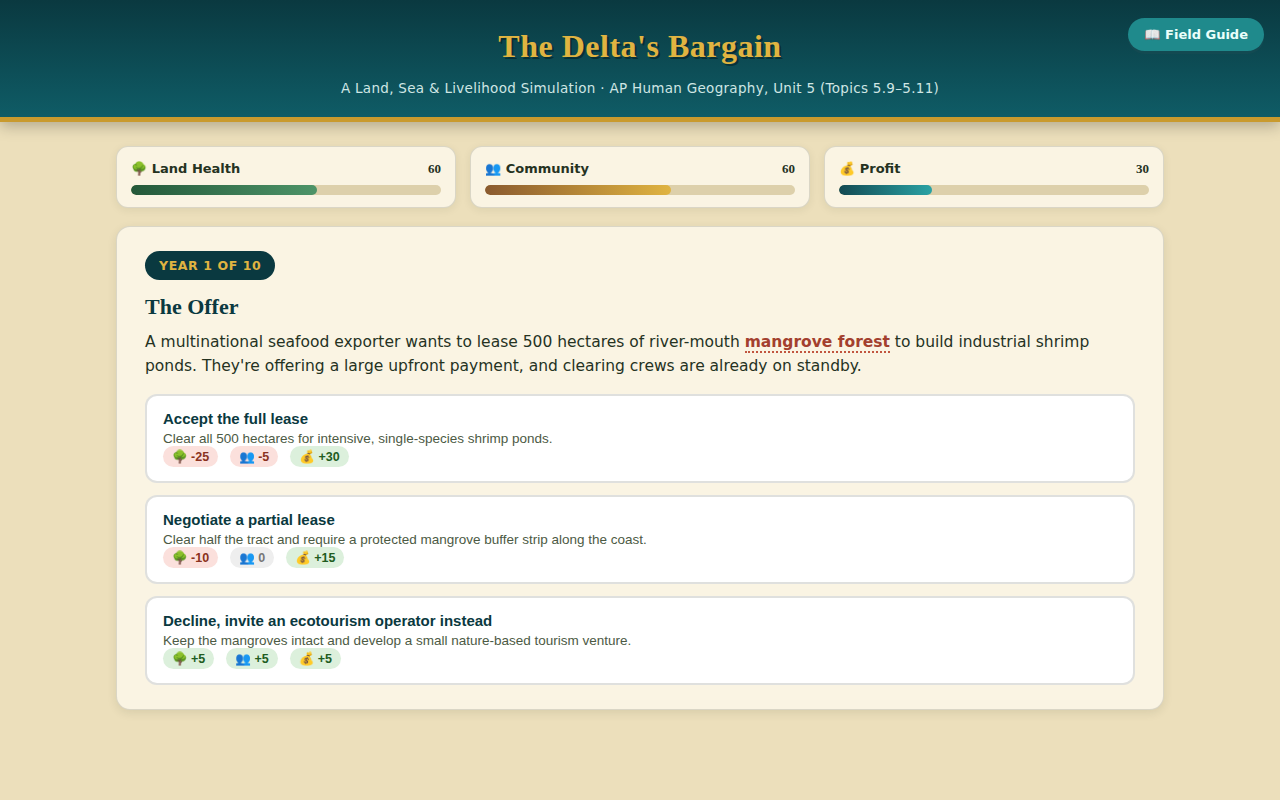
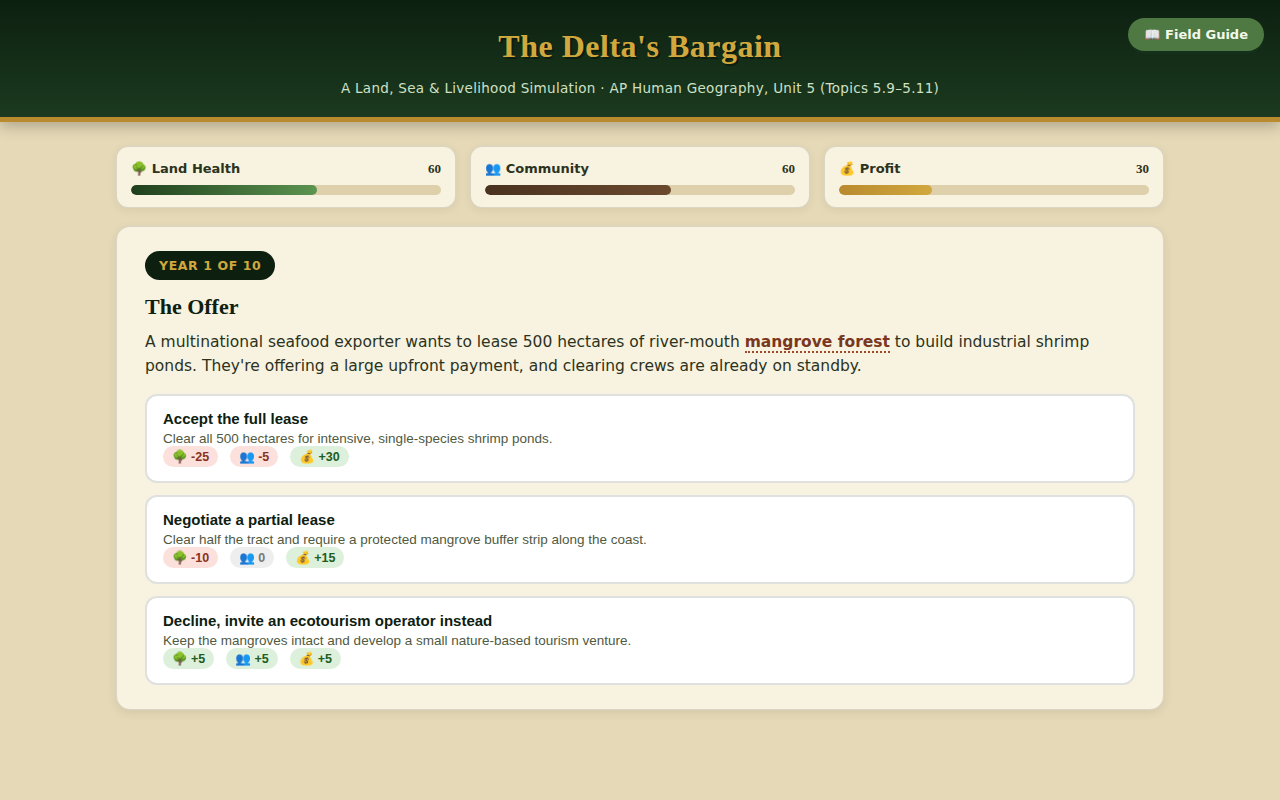
Restyle The Delta's Bargain with a green-and-brown palette
Swap the teal/navy chrome for deep forest greens, moss-green accents,
and terracotta/brown highlights. Differentiate the three resource
meters into green (land), brown (community), and gold (profit)
gradients, and regenerate the games-index thumbnail to match.

diff --git a/games/delta-bargain/index.html b/games/delta-bargain/index.html
@@ -9,15 +9,15 @@
 @import url('https://fonts.googleapis.com/css2?family=Bitter:wght@600;700;800&family=Figtree:wght@400;500;600;700;800&display=swap');
 
 :root{
-  --water:#0f5c66; --water2:#134a52; --water3:#0a3940;
-  --lagoon:#1f8a8c; --lagoon2:#2aa3a5;
-  --mangrove:#2f6b4f; --mangrove2:#245839; --mangrove-light:#4d9468;
-  --sand:#ecdfbb; --sand-dark:#ddc998; --parchment:#faf4e3;
-  --mud:#6b4a34; --mud-dark:#4a3223;
-  --coral:#c1553f; --coral2:#a3402e;
-  --gold:#c99a2e; --gold2:#e0b441;
-  --ink:#25321f; --ink-soft:#4c5a44;
-  --line:rgba(37,50,31,0.15);
+  --water:#1b3a1f; --water2:#14301a; --water3:#0d2010;
+  --lagoon:#4f7942; --lagoon2:#5f8f4f;
+  --mangrove:#2f5d2a; --mangrove2:#1f3f1c; --mangrove-light:#5c9450;
+  --sand:#e6d9b8; --sand-dark:#d4c092; --parchment:#f8f2e0;
+  --mud:#6b4a2e; --mud-dark:#4a3220;
+  --coral:#9c4a2a; --coral2:#7a3720;
+  --gold:#b98a2e; --gold2:#d1a83e;
+  --ink:#2b3320; --ink-soft:#4f5a3f;
+  --line:rgba(43,51,32,0.15);
 }
 *{box-sizing:border-box;}
 body{
@@ -43,9 +43,9 @@ a{color:var(--coral);}
   color:var(--gold2); margin:0; font-size:clamp(20px,4vw,32px);
   text-shadow:2px 2px 0 rgba(0,0,0,0.35); letter-spacing:.5px;
 }
-#game-header .subtitle{ color:#cfe6e4; font-size:13.5px; margin-top:6px; letter-spacing:.3px; }
+#game-header .subtitle{ color:#cfe0c4; font-size:13.5px; margin-top:6px; letter-spacing:.3px; }
 #glossary-btn{
-  position:absolute; right:16px; top:18px; background:var(--lagoon); color:#eafffb;
+  position:absolute; right:16px; top:18px; background:var(--lagoon); color:#f2f8ea;
   border:none; border-radius:999px; padding:9px 16px; font-weight:700; font-size:13px;
   cursor:pointer; box-shadow:0 3px 0 var(--water2);
 }
@@ -79,10 +79,10 @@ a{color:var(--coral);}
 .btn-primary:active:not(:disabled){ box-shadow:0 1px 0 var(--coral2); }
 .btn-gold{ background:var(--gold); color:#2a1d10; box-shadow:0 3px 0 #96701f; }
 .btn-gold:hover:not(:disabled){ background:var(--gold2); }
-.btn-jade{ background:var(--mangrove); color:#eafff2; box-shadow:0 3px 0 var(--mangrove2); }
+.btn-jade{ background:var(--mangrove); color:#eef7e2; box-shadow:0 3px 0 var(--mangrove2); }
 .btn-jade:hover:not(:disabled){ background:var(--mangrove-light); }
-.btn-ghost{ background:transparent; color:var(--water3); border:2px solid var(--water3); box-shadow:none; padding:10px 20px; }
-.btn-ghost:hover{ background:var(--water3); color:#fff; }
+.btn-ghost{ background:transparent; color:var(--mud); border:2px solid var(--mud); box-shadow:none; padding:10px 20px; }
+.btn-ghost:hover{ background:var(--mud); color:#fff; }
 .btn-small{ padding:7px 14px; font-size:12px; }
 
 /* ══ VOCAB TERMS ══ */
@@ -92,18 +92,18 @@ a{color:var(--coral);}
 }
 .vocab-tags{ margin-top:14px; display:flex; flex-wrap:wrap; gap:8px; }
 .vocab-pill{
-  background:var(--lagoon); color:#eafffb; font-size:11.5px; font-weight:700;
+  background:var(--lagoon); color:#f2f8ea; font-size:11.5px; font-weight:700;
   padding:5px 12px; border-radius:999px; letter-spacing:.3px;
 }
 
 /* ══ INTRO SCREEN ══ */
 .hero{
   background:linear-gradient(160deg,var(--mangrove2),var(--water3) 70%);
-  color:#eafff5; border-radius:16px; padding:30px 30px 26px; margin-bottom:20px;
+  color:#eef3e0; border-radius:16px; padding:30px 30px 26px; margin-bottom:20px;
   box-shadow:0 6px 18px rgba(0,0,0,.2);
 }
 .hero h2{ color:var(--gold2); font-size:26px; }
-.hero p{ color:#dcf0ea; }
+.hero p{ color:#e3ecd4; }
 .role-grid{ display:grid; grid-template-columns:repeat(3,1fr); gap:14px; margin:18px 0; }
 .role-card{
   background:rgba(255,255,255,.08); border:1px solid rgba(255,255,255,.18); border-radius:12px;
@@ -111,7 +111,7 @@ a{color:var(--coral);}
 }
 .role-card .icon{ font-size:30px; display:block; margin-bottom:6px; }
 .role-card h4{ margin:0 0 4px; color:var(--gold2); font-family:'Bitter',serif; font-size:15px; }
-.role-card p{ margin:0; font-size:13px; color:#d7ece5; }
+.role-card p{ margin:0; font-size:13px; color:#dce6ce; }
 @media (max-width:640px){ .role-grid{grid-template-columns:1fr;} }
 
 /* ══ METERS ══ */
@@ -129,8 +129,8 @@ a{color:var(--coral);}
 .meter .m-track{ background:#ddd0ab; border-radius:999px; height:10px; overflow:hidden; }
 .meter .m-fill{ height:100%; border-radius:999px; transition:width .5s ease; }
 .m-land .m-fill{ background:linear-gradient(90deg,var(--mangrove2),var(--mangrove-light)); }
-.m-community .m-fill{ background:linear-gradient(90deg,#8a5a2e,var(--gold2)); }
-.m-profit .m-fill{ background:linear-gradient(90deg,var(--water2),var(--lagoon2)); }
+.m-community .m-fill{ background:linear-gradient(90deg,var(--mud-dark),var(--mud)); }
+.m-profit .m-fill{ background:linear-gradient(90deg,var(--gold),var(--gold2)); }
 @media (max-width:640px){ #meter-bar{grid-template-columns:1fr;} }
 
 /* ══ ROUND HEADER ══ */
@@ -148,7 +148,7 @@ a{color:var(--coral);}
   padding:14px 16px; cursor:pointer; transition:border-color .15s ease, transform .1s ease, box-shadow .15s ease;
   font-family:'Figtree',sans-serif;
 }
-.choice-btn:hover{ border-color:var(--lagoon); box-shadow:0 3px 10px rgba(31,138,140,.18); transform:translateY(-1px); }
+.choice-btn:hover{ border-color:var(--lagoon); box-shadow:0 3px 10px rgba(79,121,66,.2); transform:translateY(-1px); }
 .choice-btn .c-label{ font-weight:800; color:var(--water3); font-size:15px; margin-bottom:4px; display:block; }
 .choice-btn .c-desc{ font-size:13.5px; color:var(--ink-soft); margin-bottom:8px; }
 .choice-btn .c-effects{ display:flex; gap:12px; flex-wrap:wrap; }
@@ -172,7 +172,7 @@ a{color:var(--coral);}
 }
 .ending-banner h2{ color:#fff; font-size:26px; }
 .ending-banner p{ color:rgba(255,255,255,.92); margin:0; }
-.ending-collapse{ background:linear-gradient(135deg,var(--coral2),#6e2418); }
+.ending-collapse{ background:linear-gradient(135deg,var(--coral2),#3f2313); }
 .ending-steward{ background:linear-gradient(135deg,var(--mangrove2),var(--lagoon)); }
 .ending-boom{ background:linear-gradient(135deg,#8a6a1e,var(--coral2)); }
 .ending-purist{ background:linear-gradient(135deg,var(--water3),var(--mangrove2)); }
@@ -194,7 +194,7 @@ a{color:var(--coral);}
 }
 .mcq-choice:hover{ border-color:var(--lagoon); }
 .mcq-choice.correct{ border-color:#2f8a3f; background:#e6f6e8; }
-.mcq-choice.incorrect{ border-color:var(--coral2); background:#fbe4de; }
+.mcq-choice.incorrect{ border-color:var(--coral2); background:#f3ded0; }
 .mcq-choice:disabled{ cursor:default; }
 .mcq-feedback{ background:var(--parchment); border-left:5px solid var(--lagoon); border-radius:8px; padding:12px 14px; margin-top:10px; font-size:14px; }
 
@@ -213,7 +213,7 @@ a{color:var(--coral);}
 .glossary-term{ border-bottom:1px solid var(--line); padding:10px 0; }
 .glossary-term:last-child{ border-bottom:none; }
 .glossary-term .g-term{ font-weight:800; color:var(--water3); font-family:'Bitter',serif; }
-.glossary-term .g-topic{ font-size:11px; font-weight:800; color:var(--coral2); background:#fbe4de; border-radius:999px; padding:2px 9px; margin-left:8px; }
+.glossary-term .g-topic{ font-size:11px; font-weight:800; color:var(--coral2); background:#f3ded0; border-radius:999px; padding:2px 9px; margin-left:8px; }
 
 .footer-note{ text-align:center; font-size:12.5px; color:var(--ink-soft); margin-top:24px; }
 .center{ text-align:center; }
